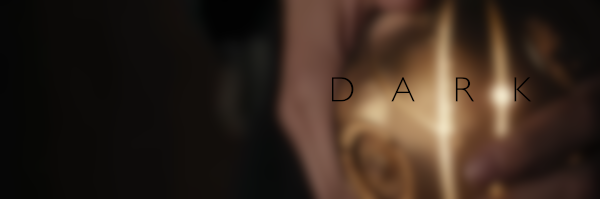
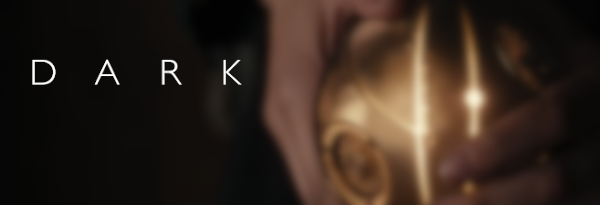
Blocs 1 et 4 révisés.

diff --git a/resources/pace-4.html b/resources/pace-4.html
@@ -1,65 +1,66 @@
 <div id="bloc4">
 	<h2>Création et résolution de paradoxes</h2>
-	<div class="content" id="p1">
-		Voyager dans le temps, c’est se projeter dans un monde qui peut nous être tout à fait inconnu, mais aussi un monde qui peut n’avoir aucune trace de vous. 
-Peut-être car vous n’êtes encore inscrit dans aucun registre, ou bien parce que vous ne l’êtes déjà plus. 
-Que feriez-vous si vous pouviez agir dans cet anonymat absolu ? 
-Vous amuseriez-vous à terroriser les habitants de la capitale de l’avant-guerre, comme Pierre Saint-Menoux ? 
-Essayeriez-vous de prédire le futur à vos ancêtres, et cela échouerait-il de la même manière que James Cole qui prédit la pandémie dévastatrice aux hommes de 1996 ? 
-Reste à savoir si le Temps accorderait qu’on tente de le duper ainsi. 
-En effet le voyage temporel ouvre la porte sur des structures improbables et vertigineuses, ces paradoxes dont vous connaissez probablement déjà les noms. 
-En vérité comprendre ces derniers nous amène nécessairement à mieux saisir les relations entre création et existence. 
-Des notions au premier abord si naturelles, et pourtant si complexes : comment devons-nous définir l’existence, si ce n’est relativement à la réalité, comme le caractère d’une chose faisant partie de cette réalité. 
-De même nous tenons pour acquis que la création est l’événement qui débute l’existence, elle en est l’origine. 
-Pourtant ces définitions semblent faire défaut à celui qui se confronte aux problèmes que nous allons soulever.
+	<div class="content" id="p1-4">
+	<h4>1. Anonymat d’un voyageur temporel</h4>
+	<p>Le voyageur, nous l’avons compris, subit un décalage temporel. 
+Mais il faut encore se souvenir que ce décalage est aussi subi par tout personnage rencontré pendant le voyage vis-à-vis de ce personnage hors de son temps. 
+Si vous voyagiez jusqu’à l’enfance de vos parents, avant même votre naissance, comment espérer que quiconque puisse vous reconnaître ? 
+Est-ce qu’à l’inverse quelqu’un se souviendrait de vous en l’an 802 701 ? 
+Le voyageur peut être parfaitement anonymisé grâce à sa capacité de voyager dans le temps.</p>
+	<p>Saint-Menoux, <a class="box cite-work" id="voyageur-trigger">Le voyageur imprudent</a>, comprend cela et trouvera un plaisir sournois à traumatiser plus que de raison les habitants de la capitale de l’avant-guerre, 
+après avoir découvert qu’il pouvait ainsi modifier les livres d’Histoire en y apparaissant sous le pseudonyme du Diable Vert. 
+Cette curiosité maligne lui donnera grand peur quand il sera attrapé et bloqué à cette époque, avant qu’Annette ne vienne l’en libérer.</p>
+	<p><a class="box cite-work" id="monkeys-trigger">James Cole</a>, quant à lui, voyage également sous couvert d’anonymat. 
+Mais cette capacité se révèle être son pire ennemi quand il essaie de convaincre les Hommes du passé de le prendre au sérieux quand il annonce les événements tragiques qui doivent se produire.</p>
+	<p>Cet anonymat laisserait presque à penser que le voyageur n’est qu’une ombre ne pouvant interagir avec l’époque de son voyage. 
+Mais il le peut bel et bien, et pas à moindre risque. 
+En effet pouvoir modifier les événements revient à modifier les chaînes de causalité, et cela est loin d’être sans danger. 
+Certains récits peuvent créer, volontairement ou non, des paradoxes, des structures rompant avec certains axiomes que nous considérons pour acquis.</p>
 	</div>
-	<div class="content" id="p2">
-		La première grande famille de paradoxes est celle des paradoxes dits « du grand-père ». 
-Barjavel est l’un des premiers à le décrire dans une œuvre de fiction. 
-Saint-Menoux, poussé par sa curiosité scientifique sans borne, et risquons-nous à le dire, une arrogance assez grande pour oser prétendre qu’il pourrait changer le cours de l’Histoire, 
-remonte en pleine époque révolutionnaire, et tente de mettre un terme prématurément à la vie de Napoléon Bonaparte lors de la bataille de Toulon, 
-l’empêchant d’accéder quelques années plus tard au sacre d’Empereur et de soumettre l’Europe. 
-Mais quand il presse la détente, un soldat s’interpose providentiellement et reçoit la balle destiné au Petit Caporal. 
-Par malheur, ce soldat s’avère être un ancêtre du voyageur. 
-Annette voit alors son mari disparaître peu à peu, jusqu’à ne plus avoir aucun souvenir de celui qu’elle aimait : 
-ce dernier a été effacé de la réalité, il n’existe plus. 
-Mais dans ce cas, comment peut-il revenir dans son passé et tuer son ancêtre ? 
-S’il ne le peut plus, son ancêtre vivra, et lui sera créé, il existera donc pour le tuer. 
-D’après ce paradoxe, on aurait simultanément l’existence et la non-existence d’un objet. 
-Barjavel écrit à ce propos un appendice dans lequel il avertit le lecteur d’abandonner toute tentative d’expliquer 
-cette contradiction par des moyens naturels et d’accepter la coexistence de ces deux notions contraires, 
-car plus personne ne peut comprendre, il évoque en particulier la ressemblance avec certains concepts de mécanique quantique.
+	<div class="content" id="p2-4">
+	<h4>2. Paradoxe du grand-père, ou d’incohérence</h4>
+	<p>Le premier type de paradoxe exploré est dit du grand-père. 
+Il repose sur la notion d’existence. 
+La définir n’est pas chose aisée. 
+Généralement la définition donnée nous ramène à la même notion. 
+Mais pour traiter des paradoxes temporels, il est plus utile de relier l’existence aux notions d’événements et de causalité que nous avons explorées plus tôt. 
+Dire qu’un objet existe reviendrait alors à dire qu’il peut interagir avec d’autres objets, déclencher des événements.</p>
+	<p><a class="box cite-work" id="voyageur-trigger">Le voyageur imprudent</a> est la première œuvre de fiction à en décrire un. 
+En effet, après avoir constaté que ses actes dans le passé pouvaient affecter le présent jusqu’à empêcher la naissance de son voisin, Saint-Menoux décide de tenter de changer l’Histoire. 
+Son arrogance lui vaudra cher puisqu’en essayant d’assassiner Napoléon durant le siège de Toulon, il tuera involontairement son ancêtre, s’effaçant lui-même du présent.</p>
+	<p>Ce n’est que plus tard que René Barjavel ajoutera un post-scriptum pour faire remarquer au lecteur le paradoxe levé par la situation. 
+En effet, comment Saint-Menoux n’existe plus dans le présent, il ne peut revenir dans le passé pour tuer Napoléon et donc son ancêtre. 
+La chaîne de causalité n’est donc plus interrompue, et Saint-Menoux naît, ce qui finit par causer la mort de son ancêtre, etc. 
+Barjavel demande à ses lecteurs, dans son post-scriptum, de ne pas chercher à comprendre ce paradoxe : ces deux réalités se produisent en même temps. 
+Il conclut en notant la ressemblance avec certains concepts de superposition d’états quantiques, sans aller plus loin.</p>
+	<p>Un autre exemple repose dans le dénouement de la série <a class="box cite-work" id="dark-trigger">Dark</a>. 
+En effet les événements dans les mondes d’Adam et Eve se reproduisent dans une boucle infinie du fait d’un paradoxe de l’écrivain. 
+Cependant le dénouement présente un troisième monde, dans lequel H.G. Tanhaus accidentellement les deux mondes en voulant empêcher la mort de son fils et sa belle-fille. 
+Afin de rompre la boucle, Adam envoie Jonas et Martha dans ce troisième monde, la nuit de l’événement, afin de l’empêcher de se produire. 
+Les deux mondes disparaissent alors, puisque Tanhaus n’a jamais été motivé à construire sa machine. 
+Comment alors Jonas et Martha peuvent-ils exister et rompre la boucle ?</p>
+	<p>La seule architecture semblant résoudre pour ce paradoxe est explorée dans <a class="box cite-work" id="future-trigger">Back to the Future</a> avec l’utilisation de lignes de temps. 
+Cette résolution est d’ailleurs prise en compte par certains chercheurs en mécanique quantique, avec le concept de multivers. 
+Un objet est alors autorisé à exister dans une réalité pour provoquer sa non-existence dans une autre.[4]</p>
 	</div>
-	<div class="content" id="p3">
-		C’est l’un de ces concepts, le principe de superposition quantique, qui permettra à Baran bo Odar de mettre un terme à son œuvre, Dark. 
-On comprend enfin comment se ferme la boucle et pourquoi elle est infinie et impossible dans le même temps. 
-Afin de parvenir à l’échappatoire, qui est un événement de la boucle, les événements doivent se produire : 
-une itération de la boucle n’est pas la cause de la prochaine itération, mais la conséquence de la précédente, en cela la boucle est infinie. 
-Mais l’échappatoire permet de rompre la boucle : au mieux la boucle se produirait une fois pourrait-on penser, 
-mais si elle se produit une fois, elle a due être causée par une itération précédente. 
-Il faut se résoudre au fait que la notion d’existence ne peut suffire à expliquer un tel enchaînement. 
-Plutôt que réfléchir en terme d’existence, il faut réfléchir à la possibilité pour l’événement de création de se produire et de ne pas se produire simultanément. 
-En considérant l’événement, on peut imaginer comme précédemment une structure temporelle de lignes et de bifurcations. 
-La création divise alors la ligne en deux, et seule une permet un retour dans le temps, avant même la bifurcation, pour la provoquer. 
-Sans cela il semble bien complexe de rester rationnel.
-	</div>
-	<div class="content" id="p4">
-		Une autre conception naturelle est de considérer que toute chose doit avoir une origine. 
-Il nous est plus aisé de se représenter un objet existant infiniment à partir du moment de sa création, 
-qu’un objet existant infiniment jusqu’à sa disparition, comme on peut interpréter la fin des deux mondes de Jonas et Martha. 
-Pourtant il est une structure qui permettrait à une entité d’exister sans même que l’on puisse définir un événement comme sa création. 
-James Cole dans Twelve Monkeys tente par tous les moyens d’empêcher la pandémie de survenir, mais ce sont ses actes qui finiront par la provoquer. 
-Pourtant il n’aurait pu devenir celui qui a provoqué la déchéance de l’humanité sans la pandémie. 
-Doit-on alors considérer l’assistant qui a répandu le virus comme le créateur de la catastrophe, ou James Cole est-il responsable ? 
-Finalement c’est le désastre qui se provoque lui-même, et a ainsi une existence sans avoir été créé. 
-Les scientifiques dès le début du film indiquent d’ailleurs ne pas vouloir changer le passé mais y récupérer des informations afin de sauver leur avenir. 
-Mais la non-existence d’un objet peut aussi s’entretenir elle-même : dans le monde de Martha, 
-on peut considérer que le fait que Jonas n’existe provoque le fait que Mikkel ne voyage pas vers 1986 et ne donnera donc pas naissance à son fils, qui n’était autre que Jonas. 
-Doit-on pour autant chercher une solution à ce paradoxe ? 
-En fin de compte, on ne rencontre pas de contradictions logiques. 
-Chaque événement se produit comme il s’est toujours produit, chaque entité existante existe bel et bien, 
-même s’il est parfois impossible d’en définir l’origine. 
-Le seul paradoxe repose en cela qu’il nous faut abandonner cette rassurant assertion que l’existence implique la création.
+	<div class="content" id="p3-4">
+	<h4>3. Paradoxe de l’écrivain</h4>
+	<p>Il est communément admis que l’existence d’une entité est la conséquence d’un événement : sa création. 
+Mais qu’en est-il si cette même entité cause cet événement précis ? 
+Peut-on alors positionner précisément la création de l’objet temporellement ? 
+Le paradoxe offre une vertigineuse boucle et un dénouement idéal pour le scénariste.</p>
+	<p>Gilliam l’utilise parfaitement dans <a class="box cite-work" id="monkeys-trigger">Twelve Monkeys</a>, en utilisant la même scène en introduction et en conclusion de son œuvre. 
+Tout le récit ne sert en fait qu’à expliquer un seul événement : la mort de James Cole, il doit pour cela décrire une boucle de causalité. 
+Dans une telle structure, chaque événement est à la fois sa cause et sa conséquence, et pourrait donc constituer le début – et la fin – du récit. 
+Dans <a class="box cite-work" id="interstellar-trigger">Interstellar</a>, cette boucle est semble bien plus étendue, puisqu’il faudra attendre que l’évolution technologique donne à l’Homme un maîtrise suffisante de la gravité pour créer Gargantua.</p>
+	<p>Une architecture en lignes de temps permet encore une fois de résoudre le paradoxe, en plaçant l’événement de la création et l’existence dans deux réalités différentes.[4] 
+Mais est-il nécessaire de le résoudre ? 
+Alors que le paradoxe du grand-père levait une incohérence, la coexistence de deux états contraires, le paradoxe de l’écrivain ne se pose pas si l’on renonce à considérer à la nécessité d’un événement de création pour qu’un objet existe. 
+Alors le fait même qu’il existe causera les événements qui mèneront à son existence.</p>
+	<p>Mais cela pose des questions quant au libre arbitre : si chaque événement implique la boucle, aucun événement ne peut être libre. 
+Peut-on dès lors rompre cette boucle et ainsi « résoudre » le paradoxe ? <a class="box cite-work" id="dark-trigger">Dark</a>, sans le résoudre, le transforme en un paradoxe du grand-père. 
+En effet la boucle des deux mondes contient un événement particulier : son échappatoire. 
+L’échappatoire détruit donc sa propre cause.</p>
 	</div>
 </div>
 

diff --git a/resources/pace-1.html b/resources/pace-1.html
@@ -1,38 +1,63 @@
 <div id="bloc1">
 	<h2>Des machines temporelles</h2>
 	<div class="content" id="p1-1">
-		Quel fut l’émerveillement de personnages si hauts en couleur qu’a dépeints Jules Verne dans ses œuvres visionnaires ? 
-Pierre Aronnax devant les merveilles des fonds marins ou Samuel Fergusson découvrant les terres encore vierges de civilisation du lac Victoria, des scientifiques mais avant tout des explorateurs. 
-Le voyage présuppose la découverte et l’imagination : avant de percevoir notre destination nous l’imaginons et que nous la découvrons nous imaginons ce qu’elle peut encore receler. 
-Mais l’auteur d’un roman de voyage ne peut laisser pleinement au lecteur la responsabilité de voyager, il le transporte dans un monde qu’il doit décrire avec précision. 
-Car le voyage fait intervenir tous les sens du lecteur, qui devient un passager. 
-Il ne sera dès lors pas étonnant de trouver plusieurs pages dans lesquelles Verne décrit un paysage, une scène seulement.
+	<h4>1. Les récits de voyage</h4>
+	<p>Quel fût l’émerveillement des personnages des personnages de Jules Verne devant les merveilles qu’abrite notre vaste monde ? 
+Pierre Aronnax contemplant les fonds marins à bord du Nautilus, avant d’être un homme de sciences, est un homme d’exploration. 
+Les récits de voyage nous proposent de suivre ces explorateurs dans leurs épopées fantasques. 
+Ils forment un sous-genre du roman bien particulier, marqué en particulier par l’abondance de description. 
+N’importe quel lecteur de Jules Verne aura remarqué l’abondance de pauses dans le récit, permettant à l’auteur de nous fournir d’abondants détails sur l’environnement du personnage. 
+Ces descriptions d’ailleurs manient habilement tous nos sens, afin de nous laisser imaginer de manière authentique le voyage dans lequel sont embarqués les protagonistes.</p> 
+	<p>L’art des récits de voyage est de mettre en éveil la plus puissante machine à voyager dont son lecteur dispose : son imagination. 
+L’étude poussée de cette forme littéraire [6] révèle des procédés récurrents, des codes implicites caractéristiques. 
+En particulier on peut noter l’utilisation fréquente d’indications spatiales, mais un moindre nombre d’indices temporels. 
+En fait les itinéraires tracés dans beaucoup de récits de voyages antérieurs aux récits de science-fiction du XXème siècle n’explorent pas la possibilité du voyage temporel. 
+La notion commencera à faire son apparition dans les <a class="box cite-work" id="machine-trigger">récits wellsiens</a>, encore proches dans leur forme des récits verniens.</p>
 	</div>
 	<div class="content" id="p2-1">
-		La science-fiction connaît en particulier depuis les récits <a class="box cite-work" id="machine-trigger">wellsiens</a>, assez proches des œuvres verniennes, un intérêt particulier pour un nouveau type de voyage fantastique : le voyage dans le temps. 
-Suite aux avancées scientifiques du vingtième siècle, tant dans la théorie de la relativité, les espaces de Minkovsky, la physique quantique, des auteurs de fiction ont intégré une dimension temporelle dans la notion de voyage, ce qui nous oblige à préciser. 
-En effet que souhaite-t-on signifier par ces termes. 
-La paradoxe bien connu « des jumeaux » est-il considéré comme un voyage temporel ? 
-Dans le cadre que nous nous fixerons il n’en sera rien. 
-En effet nous définirons le voyage temporel relativement à la perception naturelle que nous avons de l’écoulement du temps. 
-Ce voyage sera alors défini comme la possibilité pour une personne d’agir sur un instant autre que son présent. 
-Dans le paradoxe des « jumeaux », le voyageur agit sur son présent, bien que ce dernier l’amène à être dans un temps décalé par rapport aux autres. 
-Pour effectuer un tel voyage, il dispose d’une machine, d’un artefact fictif. 
-Celui-ci, évoluant au fil des auteurs, nous montre également un changement de volonté dans le traitement du sujet du voyage temporel dans la fiction.
+	<h4>2. Le voyage temporel</h4>
+	<p>Avant d’aller plus loin, intéressons-nous à ce qu’est le voyage temporel et comment il est relié au voyage spatial avec lequel nous sommes depuis longtemps familiers. 
+Il s’agit en effet toujours d’un décalage. 
+Mais ce décalage, jusqu’à présent, consistait à déplacer le personnage vers un autre lieu que celui dans lequel il se trouverait sans l’événement déclencheur de l’aventure. 
+Maintenant il s’agit de le déplacer à une autre époque.</p> 
+	<p>Pour clarifier, explicitons la perception du temps qu’a notre personnage dans un récit temporel. 
+Il distingue son passé – ce qu-il a vécu – avant son présent – que nous pouvons considérer analogue à sa position – lui-même avant son avenir, vers lequel son présent se déplace inlassablement. 
+Le décalage se produit pour désormais quand l’instant présent du voyageur se trouve être différent de celui qu’il aurait été sans que le voyage temporel soit effectué. 
+En ce sens par exemple, le célèbre paradoxe des jumeaux constitue un voyage sans retour : le présent du voyageur se trouve dans le futur de son alter ego imaginaire qui n’aurait pas voyagé.</p>
+	<p>Ainsi le récit narre un itinéraire avec une dimension de plus, plus compliqué à appréhender pour le lecteur, mais offrant en contre partie des possibilités infiniment plus vastes.</p>
 	</div>
 	<div class="content" id="p3-1">
-		En effet les premières machines, telles que celles de <a class="box cite-work" id="machine-trigger">Wells</a>, <a class="box cite-work" id="voyageur-trigger">Barjavel</a>, <a class="box cite-work" id="monkeys-trigger">Gilliam</a>, semblent attacher une certaine importance à garder un semblant de cohérence scientifique. 
-Bien que leur fonctionnement ne soit pas expliqué, leur apparence semble assez complexe pour être « réaliste ». 
-Quentin Messailloux attachait beaucoup d’importance à libérer la pensée scientifique et philosophique à travers la science-fiction exotique, qui ne serait pas gouvernée par des règles précises. 
-Barjavel est un tel exemple dans une précédente œuvre, Ravage, qui reste volontairement floue sur les causes et les conséquences de l’apocalypse de 2052. 
-Ces machines, au contraire, cherchent une caution scientifique grâce à leur apparence.
+	<h4>3. Aspects scientifiques des machines temporels</h4>
+	<p>Bien évidemment, le prérequis à tout récit de voyage temporel est un moyen de transport adapté. 
+Cette problématique était déjà présente dans la plupart des romans de Jules Verne par exemple : le ballon de Samuel Fergusson, le Nautilus du capitaine Némo permettaient aux personnages de partir à l’aventure. 
+En général, quand ces machines sont en avance sur l’époque de l’écriture du roman, l’auteur ajoute à ces dernières des détails scientifiques, ou du moins donnant l’illusion du scientifique. 
+Il s’agit en effet de conserver l’attention du lecteur : si ce dernier refuse de croire à la possibilité du voyage, comment pourrait-il maintenir la curiosité qui le pousse à l’entamer ? [1]</p>
+	<p>Pour donner cette illusion de réalité scientifique, les inventeurs des premières machines temporelles accompagnent leurs présentations d’un discours scientifique. 
+Nous citerons ici The Time Traveller dans <a class="box cite-work" id="machine-trigger">The Time Machine</a> et Noël Essaillon dans <a class="box cite-work" id="voyageur-trigger">Le voyageur imprudent</a>. 
+<a class="box cite-work" id="machine-trigger">Wells</a> propose dès le premier chapitre une digression permettant d’introduire au lecteur la notion de quatrième dimension. 
+Il expose l’argument du mathématicien Simon Newcomb. 
+Bien que ce dernier ait réellement existé du temps de l’écrivain, ses propos ne suggéraient pas nécessairement de percevoir le Temps comme une nouvelle dimension. 
+Néanmoins, beaucoup de physiciens débattaient déjà de la pertinence d’un espace de dimension supérieure à trois pour décrire l’univers. [3] 
+<a class="box cite-work" id="machine-trigger">René Barjavel</a>, pour sa part, tient un discours relevant plus de la métaphysique, et donne l’illusion du sérieux scientifique à travers le statut de ses personnages.
+	<p>Plus tard, <a class="box cite-work" id="monkeys-trigger">Twelve Monkeys</a> cherchera un nouveau moyen : le film n’a pas le temps d’aborder une longue digression comme cela pourrait se faire dans un roman. 
+Mais, au lieu de cela, Gilliam place l’action principale dans le futur : en effet le voyage de James Cole est motivé par des scientifiques en 2035, dans un monde ravagé par l’apocalypse. 
+Sommé avec l’aspect complexe et imposant de la machine, le contexte suffit au lecteur pour comprendre que la machine est hors de sa compréhension : il est incité à se concentrer sur l’itinéraire du voyageur plus que sur la machine elle-même.</p>
 	</div>
 	<div class="content" id="p4-1">
-		Cependant par la suite, on observe un bouleversement : à partir de <a class="box cite-work" id="interstellar-trigger">Interstellar</a>, les auteurs et scénaristes affichent une volonté manifeste d’expliquer leur machine par des concepts scientifiques, que le physicien rejettera sans aucun doute. 
-Mais l’apparence de ces machines semble presque trop simple. 
-La symbolique derrière la machine compte plus encore que l’aspect scientifique, car ces œuvres souhaitent utiliser le voyage dans le temps pour explorer en profondeur certaines réflexions. 
-C’est le cas des trois dernières œuvres, dont <a class="box cite-work" id="dark-trigger">Dark</a>, qui présentent dans chacune de leurs machines des formes circulaires afin de suggérer au spectateur une structure en boucle du temps et apporter finalement une réflexion sur le libre arbitre contraint par le temps. 
-L’image permet d’appuyer le propos et la pensée développée.
+	<h4>4. Symboliques des machines à voyager</h4>
+	<p>Une fois que le public a été rompu aux premières épopées temporelles, ce besoin de caution scientifique s’amoindrit. 
+Les réalisateurs ou auteurs n’auront pas un tel engouement pour des explications scientifiques. 
+Ces dernières deviennent plus superficielles, voire inexistante quand le récit n’a aucune vocation à explorer d’autres concepts liés à la science. 
+On retrouvera encore dans <a class="box cite-work" id="interstellar-trigger">Interstellar</a>, par exemple, quelques arguments scientifiques, reliant la possibilité de voyager dans le temps à la gravitation et aux nouvelles théories de la relativité générale et de la mécanique quantique. 
+Bien qu’utilisés à juste titre, ces justifications font encore débat dans la communauté scientifique et les modèles actuels ne permettent aucunement d’affirmer la possibilité d’un voyage temporel à l’échelle humaine. [4]</p>
+	<p>Dans <a class="box cite-work" id="tenet-trigger">Tenet</a>, Nolan abandonne explicitement la volonté de donner une explication scientifique au récit, par le biais d’une simple ligne de dialogue : « N’essayez pas le comprendre, ressentez-le ». 
+Nolan annonce au spectateur que ce qu’il s’apprête à décrire pourrait tout simplement ne pas être permis par la science. 
+Bien que l’idée puisse éventuellement être explorée à très petite échelle, en lien avec des recherches de John Wheeler sur la flèche du temps, rien n’indique que les lois physiques permettraient un jour de réaliser la machine imaginée par Nolan.</p>
+	<p>Mais d’ailleurs, le spectateur sera sûrement frappé par un élément : cette machine semble fantastiquement simple ! 
+De l’extérieur, elle n’est constituée que de deux cylindres, pouvant tourner et faire ressortir le voyageur dans l’autre cylindre. 
+La machine semble relier deux mondes, coexistant mais dans lesquels le temps s’écoule inversement.
+Enfin un dernière exemple de machine symbolique bien plus que scientifique est donné dans <a class="box cite-work" id="dark-trigger">Dark</a>. 
+On y constate l’omniprésence du nombre 3, si cher à la série, ou encore de l’aspect circulaire qui prédispose le spectateur à la boucle dans laquelle il voyage et ses implications.</p>
 	</div>
 </div>
 

diff --git a/resources/dark.html b/resources/dark.html
@@ -2,7 +2,7 @@
 	<div class="modalbox-wrapper work-wrapper" id="dark-wrapper">
 		<span class="clickable box modalbox-close work-close" id="dark-close">&times</span>
 		<div class="illustration-frame">
-			<img class="illustration illustr-right" src="img/dark.png"></img>
+			<img class="illustration illustr-left" src="img/dark.png"></img>
 		</div>
 		<p><span class="title">Dark</span> est une série réalisée par <span class="author">Baran Bo Odar</span> et <span class="author">Jantje Friese</span>.</p> 
 		<p>Ses trois saisons produites par Netflix sont diffusées sur la plateforme de streaming entre 2017 et 2020. La série ne cache pas, même dans ses premières secondes, sa volonté de nous exposer une épopée temporelle. À travers de multiples personnages, ayant chacun des enjeux et souvent une dimension philosophique manifeste, la série utilise le voyage temporel pour traiter le sujet du libre arbitre et de l'enchaînement de l'Homme à ces désirs.</p>

diff --git a/style/style.css b/style/style.css
@@ -33,7 +33,7 @@ blockquote, q		{ font-family: 'Pinyon Script', cursive; }
 h1		{ font-size: 2.4em; }
 h2		{ font-size: 2.1em; }
 h3		{ font-size: 1.8em; }
-h4		{ font-size: 1.5em; }
+h4		{ font-size: 1.8em; }
 .title		{ text-decoration: underline; }
 .extract	{ font-style: italic; }
 .author		{ font-weight: 600; }
@@ -402,4 +402,23 @@ within the page wrapper. */
 	width: 450px;
 	left: 380px;
 	top: -110px;
+}
+
+#p1-4	{
+	position: relative;
+	width: 500px;
+	left: 0;
+	top: 0;
+}
+#p2-4	{
+	position: relative;
+	width: 550px;
+	left: 400px;
+	top: -50px;
+}
+#p3-4	{
+	position: relative;
+	width: 500px;
+	left: 30px;
+	top: -70px;
 }

diff --git a/scripts/eventlistener.js b/scripts/eventlistener.js
@@ -4,9 +4,9 @@ window.onload = function()	{
 };
 
 window.onkeydown 	= function(gfg)	{
-	if(gfg.keyCode == 37 && slideIndex > 1)	{ 
-		showSlides(slideIndex -= 1); }
-	if(gfg.keyCode == 39 && slideIndex < 6) { 
-		showSlides(slideIndex += 1); }
+	if(gfg.keyCode == 37)	{ 
+		plusSlides(-1); }
+	if(gfg.keyCode == 39) { 
+		plusSlides(+1); }
 };
 

diff --git a/scripts/scroll.js b/scripts/scroll.js
@@ -1,10 +1,10 @@
-const lat = 50;
+const lat = 120;
 const sht = 160;
 const positions = [
-	[[81, 441], [421, 801], [791, 1131], [1171, 1511]],
+	[[80, 480], [580, 1150], [1260, 2100], [2100, 3000]],
 	[],
 	[],
-	[],
+[[80, 660], [790, 1570], [1690, 3000]],
 	[],
 	[]
 ];

diff --git a/scripts/show.js b/scripts/show.js
@@ -16,7 +16,7 @@ function setPageVisible(v)
 
 	if(v)
 	{
-		if(slideIndex > 1)	{ prev.style.display = val; }
+		if(slideIndex > 0)	{ prev.style.display = val; }
 		if(slideIndex < 6)	{ next.style.display = val; }
 	}
 	else
